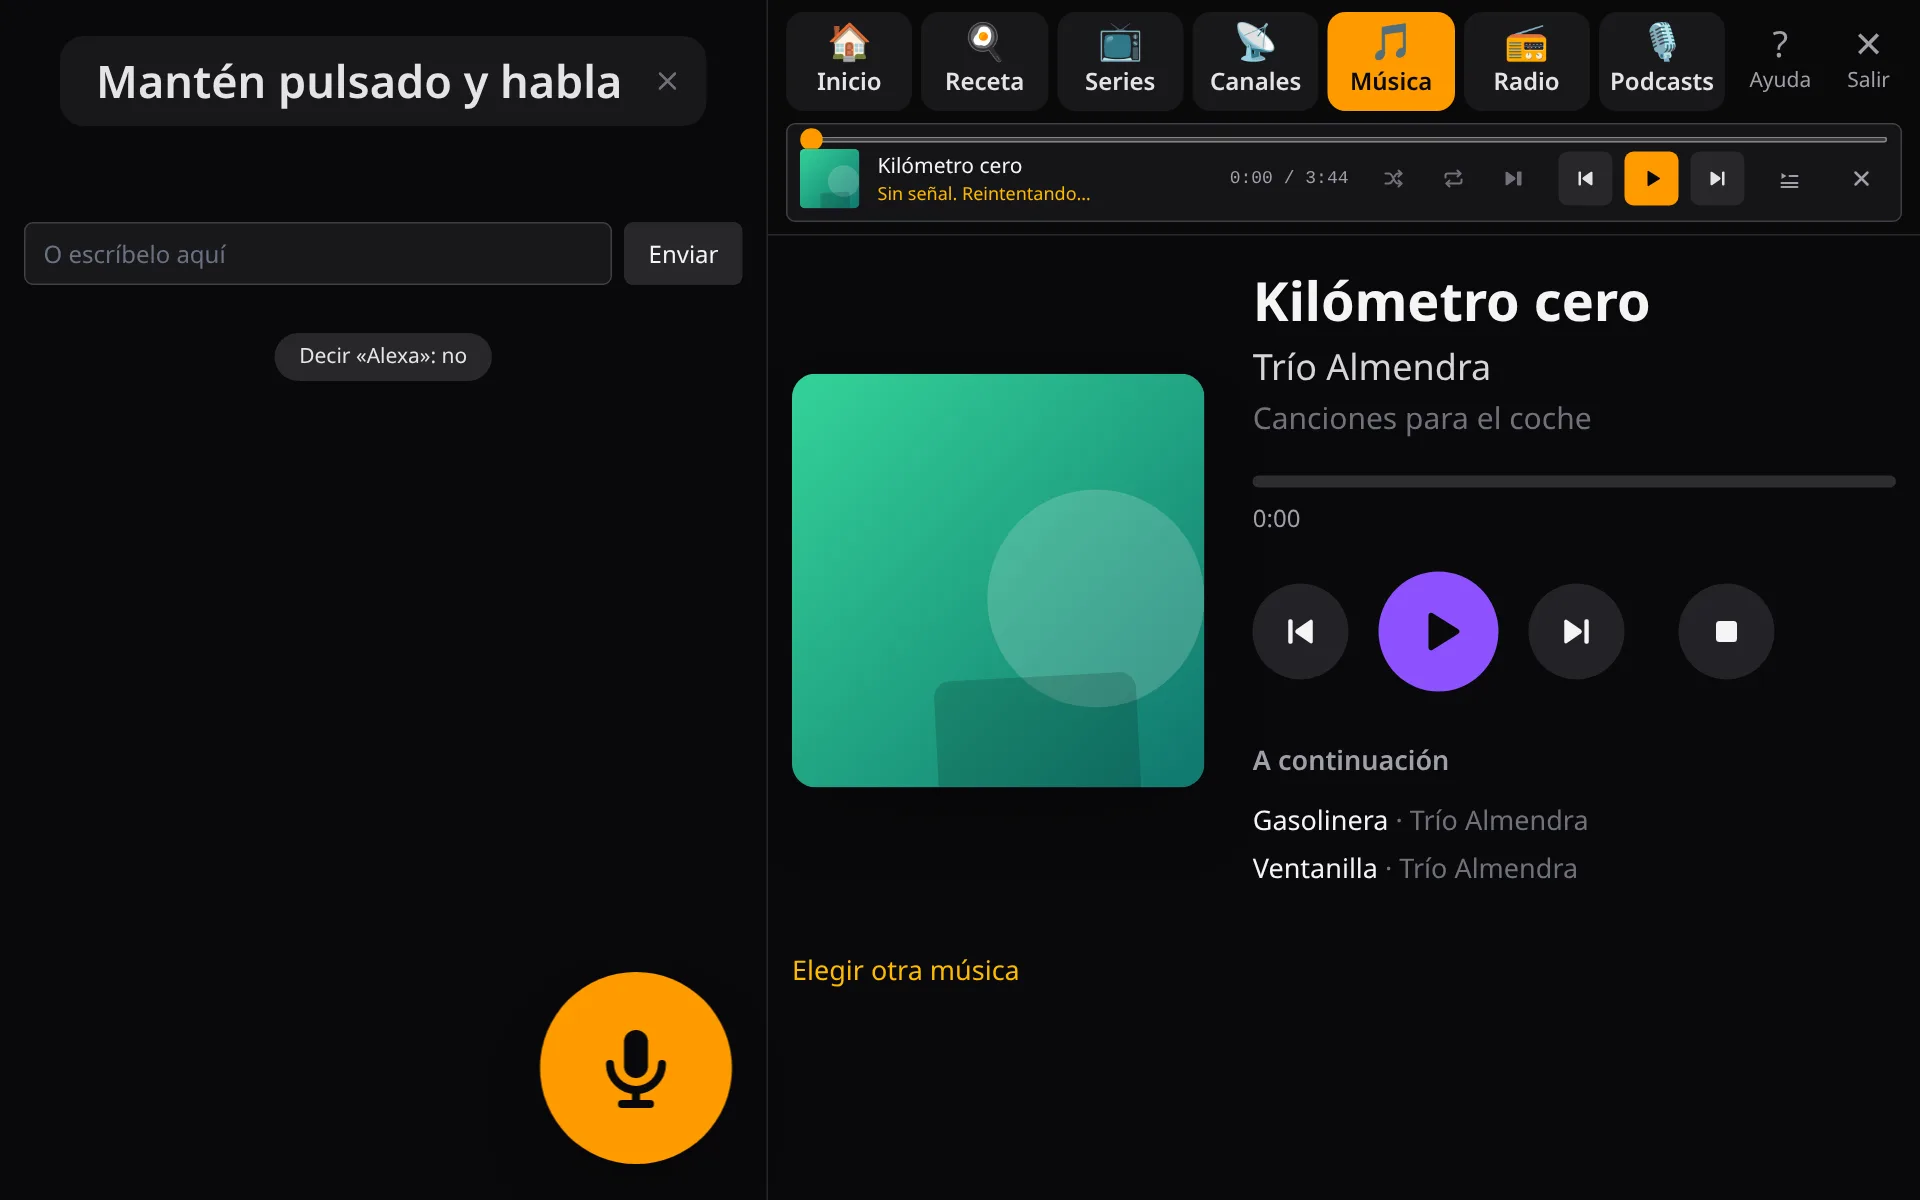
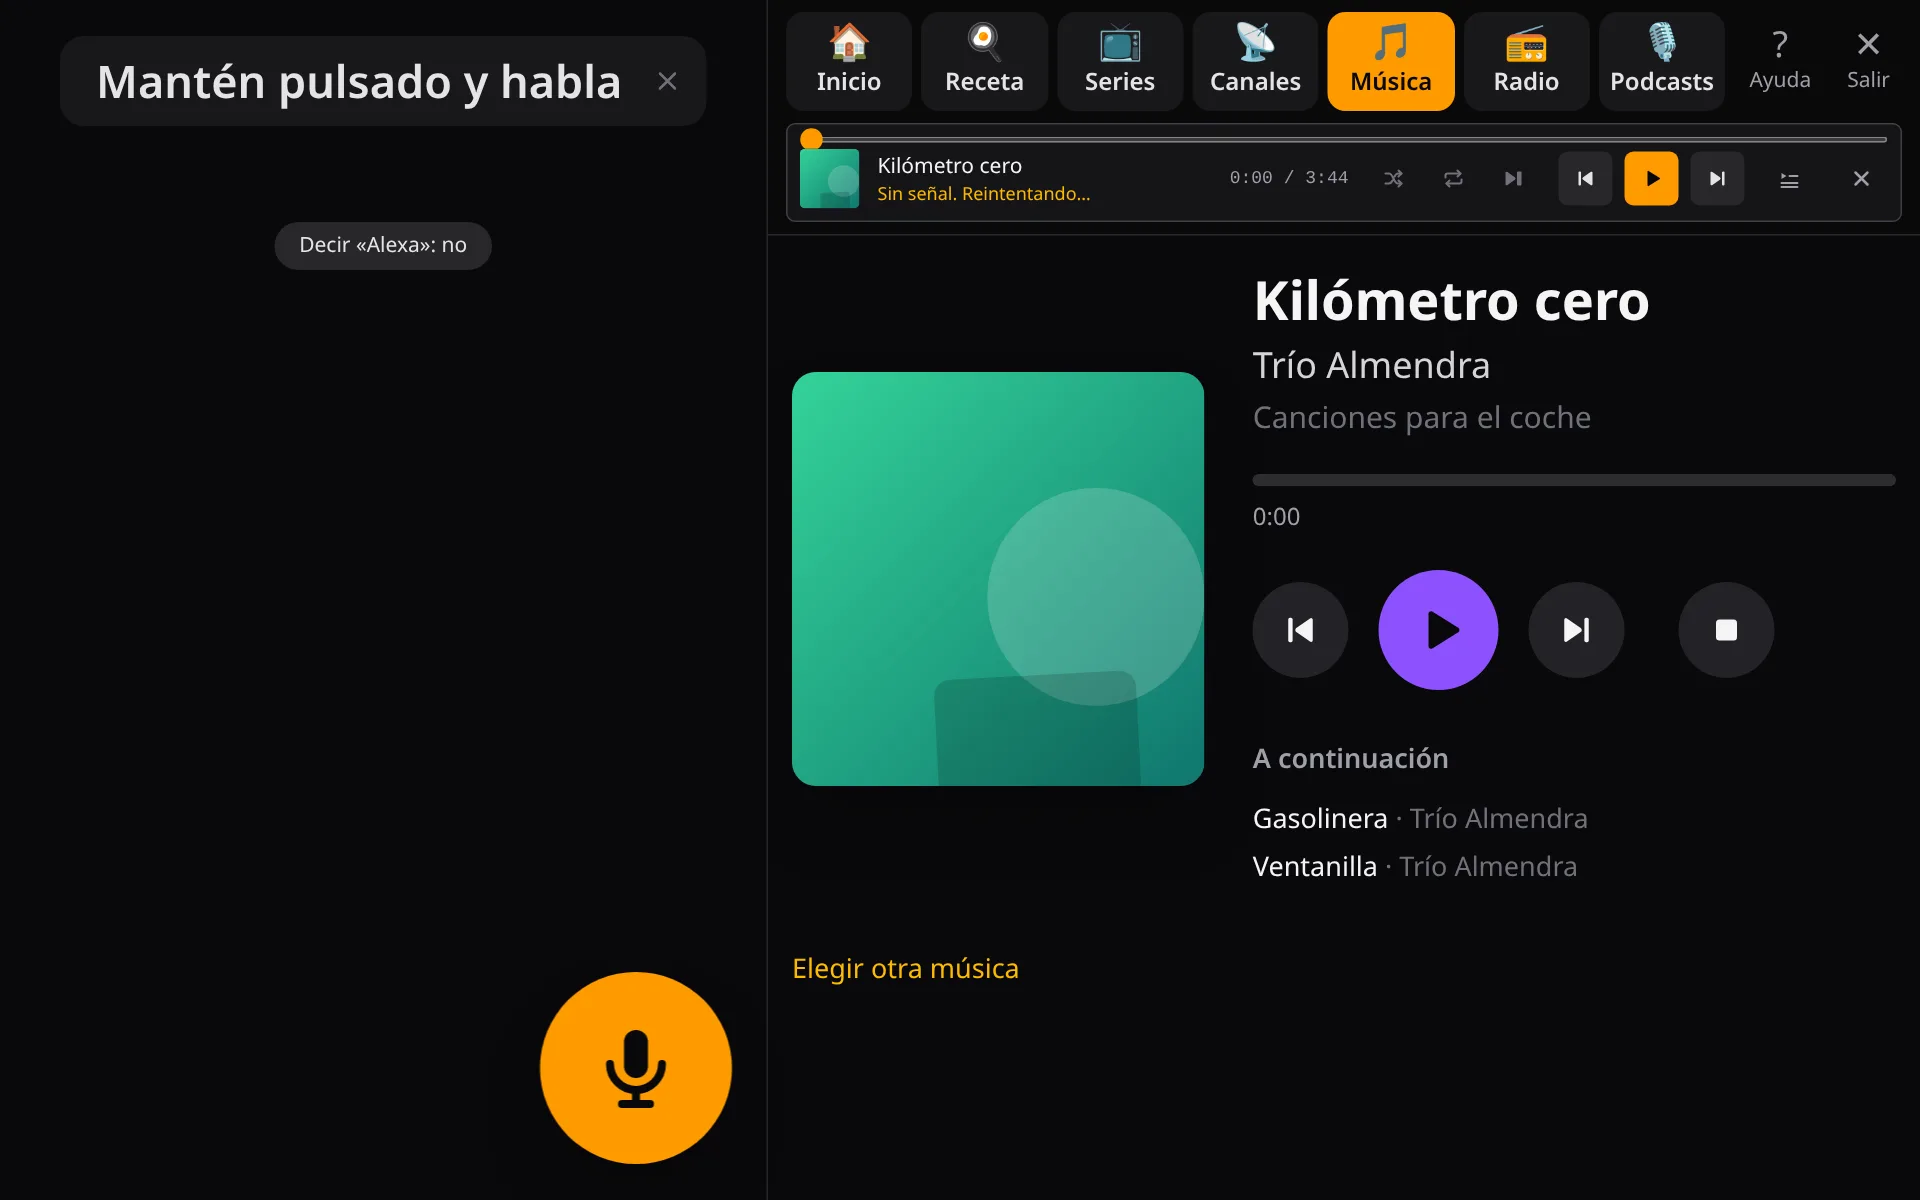
Vista (#525): las pestañas siempre arriba y sin el campo para escribir. En una pantalla estrecha (una tablet en vertical, menos de 768 px CSS) la columna de la voz iba encima y las pestañas quedaban muy abajo, bajo «O escríbelo aquí». Ahora las pestañas son fijas arriba en cualquier tamaño (en horiz

diff --git a/nube/src/lib/components/VistaScreen.svelte b/nube/src/lib/components/VistaScreen.svelte
@@ -16,8 +16,8 @@
 	 * is on, under big tabs: today in the house (/vista), the recipe (/cocina), the series, the
 	 * channels, the music («Sonando», big, while something plays), the radio and the podcasts, as
 	 * they are in the site. The right side scrolls with the window, so each page keeps its own
-	 * scroll and «back» works. On a narrow screen, one over the other. Untouched a while, it rests
-	 * (VistaRest.svelte).
+	 * scroll and «back» works. The tabs always at the top; on a narrow screen, the page first and
+	 * the left under it. Untouched a while, it rests (VistaRest.svelte).
 	 */
 	let { children }: { children: Snippet } = $props();
 
@@ -45,69 +45,73 @@
 	let tabsHeight = $state(0);
 </script>
 
-<!-- The left, fixed on a wide screen: what scrolls is the right. Opaque, over a page's background. -->
-<aside
-	class="border-b border-zinc-800 bg-zinc-950 md:fixed md:inset-y-0 md:left-0 md:z-30 md:w-[40%] md:overflow-y-auto md:border-r md:border-b-0"
-	aria-label="Pasos"
->
-	<div class="flex flex-col gap-2 px-4 has-[>*]:pt-3">
-		<AlarmBanner />
-		<TimerBar />
-	</div>
-	<VoicePanel kitchen />
-</aside>
-
-<div class="md:ml-[40%]" style:--header-h="{tabsHeight}px">
-	<header
-		bind:clientHeight={tabsHeight}
-		class="sticky top-0 z-20 border-b border-zinc-800 bg-zinc-950/95 backdrop-blur"
+<!-- The left, fixed on a wide screen: what scrolls is the right. Opaque, over a page's background.
+     On a narrow screen it goes after the page, which starts right under the tabs. -->
+<div class="flex flex-col md:block" style:--vista-tabs="{tabsHeight}px">
+	<aside
+		class="order-last border-t border-zinc-800 bg-zinc-950 md:fixed md:inset-y-0 md:left-0 md:z-30 md:w-[40%] md:overflow-y-auto md:border-t-0 md:border-r"
+		aria-label="Pasos"
 	>
-		<div class="flex items-center gap-2 px-3 py-2">
-			<!-- Seven, side by side in the 60 %: the icon over its name, all the same width. -->
-			<nav class="grid min-w-0 flex-1 grid-cols-7 gap-1.5" aria-label="Vista">
-				{#each TABS as t (t.href)}
-					<a
-						href={t.href}
-						aria-current={current(t) ? 'page' : undefined}
-						class={[
-							'flex min-w-0 flex-col items-center gap-0.5 rounded-xl px-1 py-2 text-base font-semibold transition active:scale-95',
-							current(t)
-								? 'bg-amber-500 text-zinc-950'
-								: 'bg-zinc-900 text-zinc-200 hover:bg-zinc-800'
-						]}
-						><span class="text-2xl leading-none" aria-hidden="true">{t.icon}</span><span
-							class="max-w-full truncate">{t.label}</span
-						></a
-					>
-				{/each}
-			</nav>
-			<!-- Its page in the family's guide (#495), in another tab. -->
-			<a
-				href="https://docs.seilide.app/guia/vista/"
-				target="_blank"
-				rel="noopener"
-				class="flex shrink-0 flex-col items-center gap-0.5 rounded-xl px-2 py-2 text-sm text-zinc-400 hover:bg-zinc-800 hover:text-white"
-				aria-label="Cómo se usa la Vista (guía)"
-				title="Cómo se usa la Vista"
-				><span class="text-2xl leading-none" aria-hidden="true">?</span>Ayuda</a
-			>
-			<button
-				class="flex shrink-0 flex-col items-center gap-0.5 rounded-xl px-2 py-2 text-sm text-zinc-400 hover:bg-zinc-800 hover:text-white"
-				aria-label="Salir de la Vista"
-				title="Salir de la Vista: la web de siempre"
-				onclick={() => vista.leave()}
-				><span class="text-2xl leading-none" aria-hidden="true">✕</span>Salir</button
-			>
+		<div class="flex flex-col gap-2 px-4 has-[>*]:pt-3">
+			<AlarmBanner />
+			<TimerBar />
 		</div>
-		<!-- What plays, from one tab to another. -->
-		<div class="px-3 has-[>*]:pb-2">
-			<MusicBar />
-		</div>
-	</header>
+		<VoicePanel kitchen />
+	</aside>
 
-	<main class="px-4 py-6">
-		{@render children()}
-	</main>
+	<!-- The tabs, always at the top of the screen (on a wide one, over the right 60 %). -->
+	<div class="pt-[var(--vista-tabs)] md:ml-[40%]" style:--header-h="{tabsHeight}px">
+		<header
+			bind:clientHeight={tabsHeight}
+			class="fixed inset-x-0 top-0 z-30 border-b border-zinc-800 bg-zinc-950/95 backdrop-blur md:left-[40%]"
+		>
+			<div class="flex items-center gap-2 px-3 py-2">
+				<!-- Seven, side by side in the 60 %: the icon over its name, all the same width. -->
+				<nav class="grid min-w-0 flex-1 grid-cols-7 gap-1.5" aria-label="Vista">
+					{#each TABS as t (t.href)}
+						<a
+							href={t.href}
+							aria-current={current(t) ? 'page' : undefined}
+							class={[
+								'flex min-w-0 flex-col items-center gap-0.5 rounded-xl px-1 py-2 text-base font-semibold transition active:scale-95',
+								current(t)
+									? 'bg-amber-500 text-zinc-950'
+									: 'bg-zinc-900 text-zinc-200 hover:bg-zinc-800'
+							]}
+							><span class="text-2xl leading-none" aria-hidden="true">{t.icon}</span><span
+								class="max-w-full truncate">{t.label}</span
+							></a
+						>
+					{/each}
+				</nav>
+				<!-- Its page in the family's guide (#495), in another tab. -->
+				<a
+					href="https://docs.seilide.app/guia/vista/"
+					target="_blank"
+					rel="noopener"
+					class="flex shrink-0 flex-col items-center gap-0.5 rounded-xl px-2 py-2 text-sm text-zinc-400 hover:bg-zinc-800 hover:text-white"
+					aria-label="Cómo se usa la Vista (guía)"
+					title="Cómo se usa la Vista"
+					><span class="text-2xl leading-none" aria-hidden="true">?</span>Ayuda</a
+				>
+				<button
+					class="flex shrink-0 flex-col items-center gap-0.5 rounded-xl px-2 py-2 text-sm text-zinc-400 hover:bg-zinc-800 hover:text-white"
+					aria-label="Salir de la Vista"
+					title="Salir de la Vista: la web de siempre"
+					onclick={() => vista.leave()}
+					><span class="text-2xl leading-none" aria-hidden="true">✕</span>Salir</button
+				>
+			</div>
+			<!-- What plays, from one tab to another. -->
+			<div class="px-3 has-[>*]:pb-2">
+				<MusicBar />
+			</div>
+		</header>
+
+		<main class="px-4 py-6">
+			{@render children()}
+		</main>
+	</div>
 </div>
 
 <VistaRest />

diff --git a/nube/src/lib/components/VoicePanel.svelte b/nube/src/lib/components/VoicePanel.svelte
@@ -224,26 +224,29 @@
 		</ol>
 	{/if}
 
-	<form
-		class="flex w-full max-w-xl gap-2"
-		onsubmit={(e) => {
-			e.preventDefault();
-			if (!typed.trim() || voice.phase !== 'idle') return;
-			void voice.command(typed.trim());
-			typed = '';
-		}}
-	>
-		<input
-			bind:value={typed}
-			placeholder="O escríbelo aquí"
-			aria-label="Escribir la orden"
-			class="min-w-0 flex-1 rounded-md border border-zinc-700 bg-zinc-900 px-3 py-2 text-base"
-		/>
-		<button
-			class="rounded-md bg-zinc-800 px-4 py-2 text-base hover:bg-zinc-700"
-			disabled={voice.phase !== 'idle'}>Enviar</button
+	<!-- Written instead of said: in Hablar; in the Vista, across the room, nobody types. -->
+	{#if !kitchen}
+		<form
+			class="flex w-full max-w-xl gap-2"
+			onsubmit={(e) => {
+				e.preventDefault();
+				if (!typed.trim() || voice.phase !== 'idle') return;
+				void voice.command(typed.trim());
+				typed = '';
+			}}
 		>
-	</form>
+			<input
+				bind:value={typed}
+				placeholder="O escríbelo aquí"
+				aria-label="Escribir la orden"
+				class="min-w-0 flex-1 rounded-md border border-zinc-700 bg-zinc-900 px-3 py-2 text-base"
+			/>
+			<button
+				class="rounded-md bg-zinc-800 px-4 py-2 text-base hover:bg-zinc-700"
+				disabled={voice.phase !== 'idle'}>Enviar</button
+			>
+		</form>
+	{/if}
 
 	{#if !kitchen}
 		<!-- The Vista (#525): today in the house, the recipe, the music, the radio. -->
